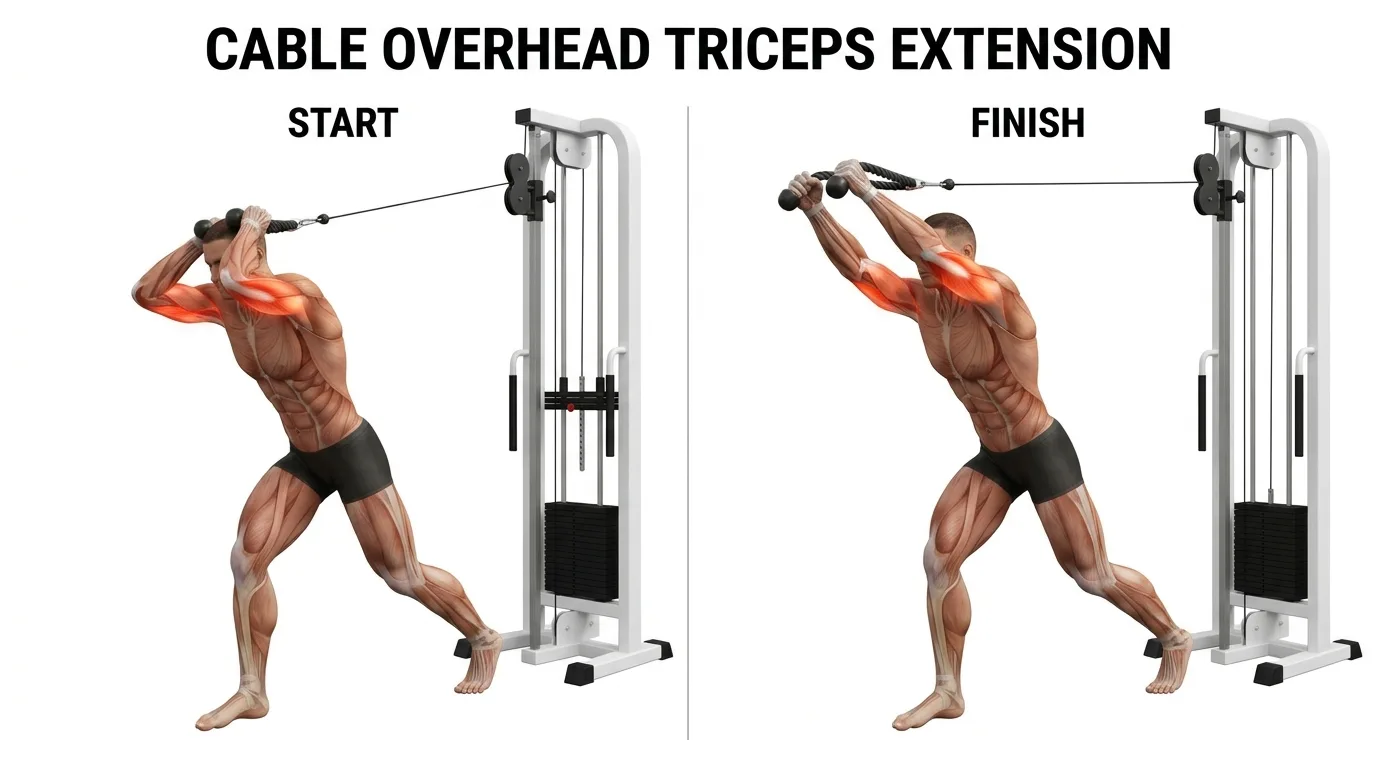
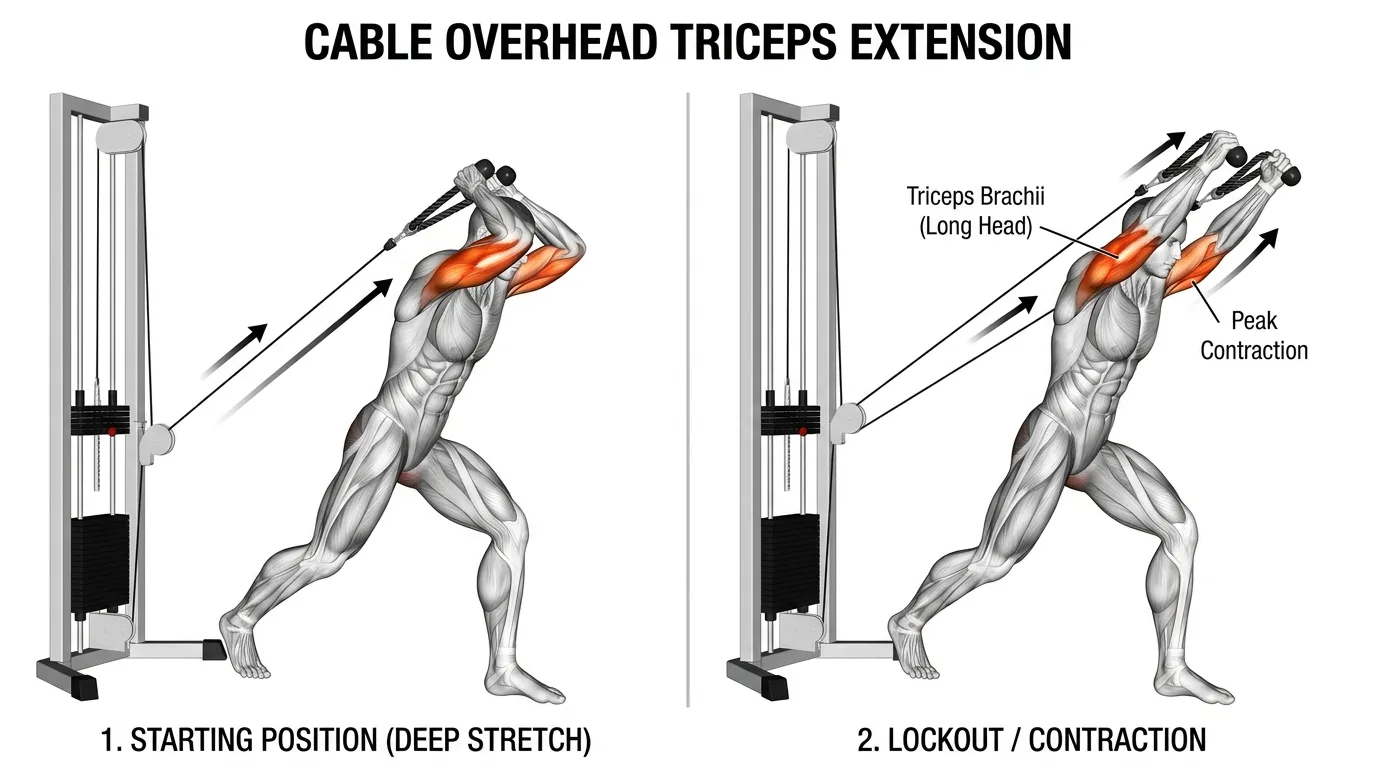
feat(encyclopedia): add top 9 Ouwan community exercise guides & fix cable overhead triceps extension pulley height

diff --git a/equipment-encyclopedia.js b/equipment-encyclopedia.js
@@ -1253,7 +1253,31 @@ const EXERCISE_SYNONYMS = {
   "베이지안컬": "베이지안 컬",
   "원암케이블컬": "베이지안 컬",
   "케이블원암컬": "베이지안 컬",
-  "케이블 원 암 바이셉스 컬": "베이지안 컬"
+  "케이블 원 암 바이셉스 컬": "베이지안 컬",
+  "업도미널": "앱도미널 머신",
+  "앱도미널": "앱도미널 머신",
+  "케이블다운": "트라이셉스 푸쉬다운",
+  "실내 자전거": "사이클",
+  "실내자전거": "사이클",
+  "싸이클": "사이클",
+  "리버스 펙덱플라이": "리어 델토이드 머신",
+  "라잉레그컬": "라잉 레그컬",
+  "아웃타이": "아웃싸이 (어브덕션)",
+  "이너타이": "이너싸이 (어덕션)",
+  "체스트 프레스": "체스트 프레스 머신",
+  "러닝머신": "런닝머신",
+  "러닝머신 걷기": "런닝머신",
+  "힙 어덕션": "이너싸이 (어덕션)",
+  "힙 어브덕션": "아웃싸이 (어브덕션)",
+  "브이 스쿼트": "V-스쿼트",
+  "브이스쿼트": "V-스쿼트",
+  "브이핵스쿼트": "V-스쿼트",
+  "시티드 레그컬": "레그컬",
+  "레그 프레스": "레그프레스",
+  "덤벨 숄더 프레스": "덤벨 숄더프레스",
+  "체스트 웨이트": "체스트 프레스 머신",
+  "시티드 로우": "시티드 케이블 로우",
+  "친딥": "어시스트 풀업"
 };
 
 // Master Encyclopedia of 168 Gym Exercises & Equipment
@@ -2659,6 +2683,7 @@ const EQUIPMENT_CATALOG = [
     "id": "hack-squat",
     "name": "핵스쿼트",
     "category": "하체",
+    "imageUrl": "assets/exercises/hack-squat.webp",
     "englishName": "Linear Hack Squat Machine",
     "iconType": "hack-squat",
     "equipmentType": "핵스쿼트 플레이트 머신",
@@ -2752,6 +2777,7 @@ const EQUIPMENT_CATALOG = [
     "id": "leg-press",
     "name": "레그프레스",
     "category": "하체",
+    "imageUrl": "assets/exercises/leg-press.webp",
     "englishName": "45° Incline Leg Press",
     "iconType": "leg-press",
     "equipmentType": "45도 파워 레그프레스 머신",
@@ -2822,6 +2848,7 @@ const EQUIPMENT_CATALOG = [
     "id": "leg-extension",
     "name": "레그 익스텐션",
     "category": "하체",
+    "imageUrl": "assets/exercises/leg-extension.webp",
     "englishName": "Seated Leg Extension",
     "iconType": "leg-extension",
     "equipmentType": "레그 익스텐션 핀 머신",
@@ -2846,6 +2873,7 @@ const EQUIPMENT_CATALOG = [
     "id": "seated-leg-curl",
     "name": "레그컬",
     "category": "하체",
+    "imageUrl": "assets/exercises/seated-leg-curl.webp",
     "englishName": "Seated Leg Curl",
     "iconType": "seated-leg-curl",
     "equipmentType": "시티드 레그컬 핀 머신",
@@ -3290,6 +3318,7 @@ const EQUIPMENT_CATALOG = [
     "id": "overhead-press",
     "name": "오버헤드 프레스 (OHP)",
     "category": "어깨",
+    "imageUrl": "assets/exercises/overhead-press.webp",
     "englishName": "Overhead Barbell Press",
     "iconType": "standing-ohp",
     "equipmentType": "스탠딩 바벨 / 파워 랙",
@@ -3639,6 +3668,7 @@ const EQUIPMENT_CATALOG = [
     "id": "rear-deltoid-machine",
     "name": "리어 델토이드 머신",
     "category": "어깨",
+    "imageUrl": "assets/exercises/rear-deltoid-machine.webp",
     "englishName": "Reverse Pec Deck / Rear Delt Machine",
     "iconType": "reverse-pec-deck",
     "equipmentType": "리버스 펙덱 핀 머신",
@@ -4537,6 +4567,7 @@ const EQUIPMENT_CATALOG = [
     "id": "abdominal-machine",
     "name": "앱도미널 머신",
     "category": "복근/코어",
+    "imageUrl": "assets/exercises/abdominal-machine.webp",
     "englishName": "Abdominal Crunch Machine",
     "iconType": "ab-machine",
     "equipmentType": "앱도미널 크런치 핀 머신",
@@ -4999,6 +5030,7 @@ const EQUIPMENT_CATALOG = [
     "id": "treadmill",
     "name": "런닝머신",
     "category": "유산소",
+    "imageUrl": "assets/exercises/treadmill.webp",
     "englishName": "Motorized Treadmill Running",
     "iconType": "treadmill",
     "equipmentType": "트레드밀 머신",
@@ -5048,6 +5080,7 @@ const EQUIPMENT_CATALOG = [
     "id": "stationary-bike",
     "name": "사이클",
     "category": "유산소",
+    "imageUrl": "assets/exercises/stationary-bike.webp",
     "englishName": "Stationary Spin / Upright Bike",
     "iconType": "stationary-bike",
     "equipmentType": "실내 스핀/입식 바이크",
